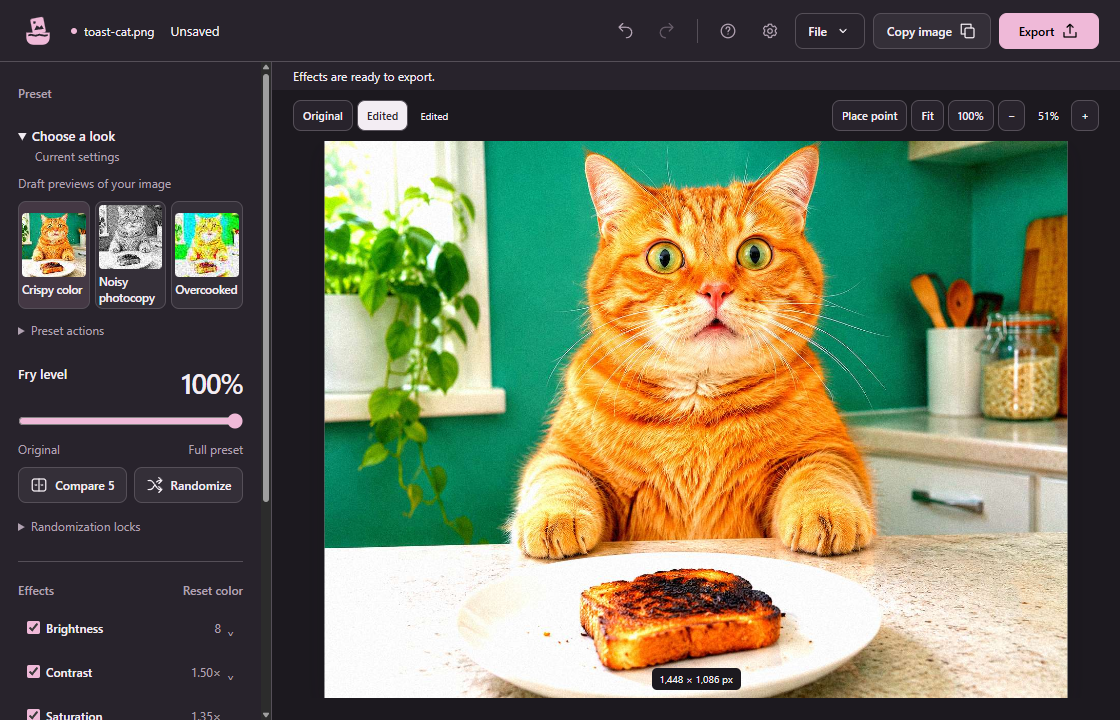
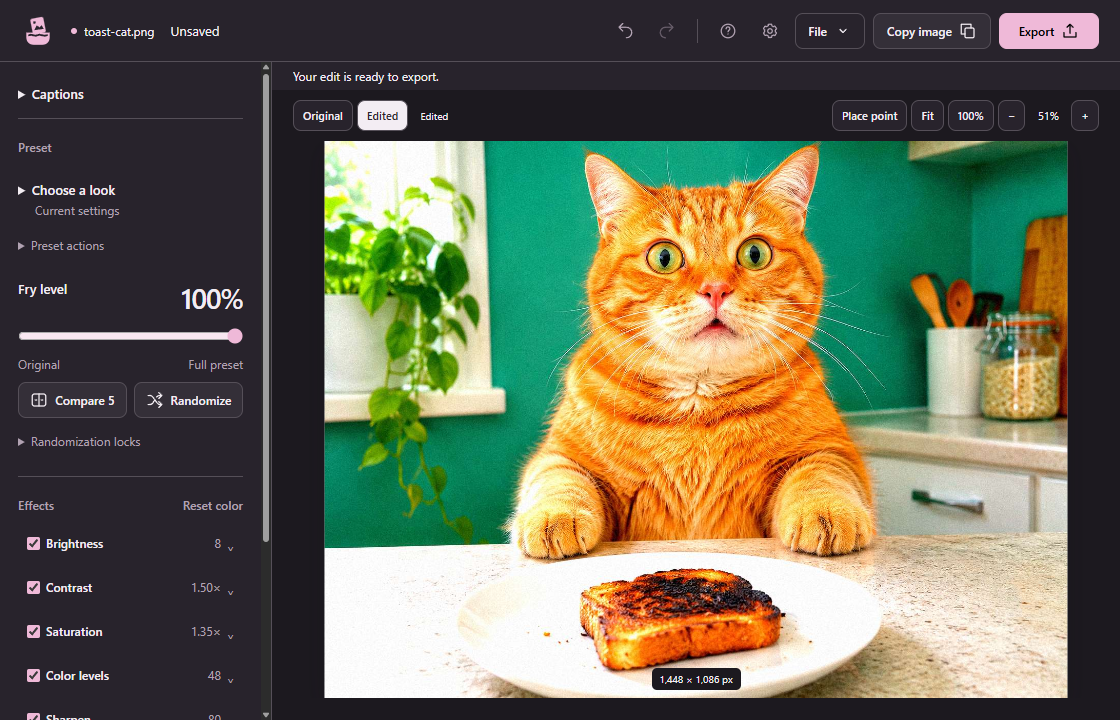
docs: show captions in the actual Windows editor and retain integration evidence

diff --git a/.audit/caption-gate.md b/.audit/caption-gate.md
@@ -1,0 +1,28 @@
+# Caption integration checkpoint
+
+Coordinator source head `028f32e5baed7e3c36f95ed0d1d6bade3c325b26`, source tree `5a3eef182808c3731f62b9972fbc809f688c8747`. The following documentation and image commit leaves that source tree unchanged. Ordinary Save is not included.
+
+## Observed locally
+
+Node 24.22.2 with the lockfile dependencies. Receipts are retained under `.artifacts/caption-integration/` in the coordinator checkout.
+
+- Integrated predecessor `10ad58b` passed typecheck, 51 unit tests, build, and the entire Electron suite with 60 passed and three environment-gated skips. Receipts `typecheck.log`, `unit.log`, `build.log`, and `desktop.log`.
+- The completion message then changed from color-specific wording to complete-edit wording. At `028f32e`, typecheck/build and all seven caption/editor/inspection journeys passed. Receipts `polish-typecheck.log`, `polish-build.log`, and `polish-desktop.log`.
+- A fresh unpacked Windows package at `028f32e` passed the bundled font/license journey and ten caption/copy/historical-file journeys, with native clipboard skipped. Receipts `final-package.log`, `final-packaged-font/manifest.json`, and `packaged-desktop.log`.
[1 lines of base64/hex data omitted]
+- `gallery-capture/manifest.json` records a clean tracked tree, actual packaged mode, changed pixels, unchanged original image bytes, zero recorded renderer errors, and successful teardown. The three gallery images were copied byte-for-byte to `docs/images/`. `fried-product-caption/manifest.json` records the caption screenshot from the same package at 900×620 outer size and 884×581 content. Its capture script is retained as `capture-fried-meme.mjs`.
+- Local documentation check passed 96 links. External URLs were not refreshed by this check.
+
+The first byte-comparison attempt assumed slash-separated ASAR paths and failed with `out/renderer/index.html was not found in this archive`. Listing the archive showed Windows separators. The corrected checker used the native path and matched all files. This was a verification-script correction, with no product change.
+
+## Independent evidence
+
+Terra reviewed the caption range `d2cdcfd..42e1494` before its clean rebase onto the modal correction. Its fresh build, 22 focused units, five Electron journeys, and extra unsupported-text reopen/unfinished-IME close checks passed. It reported no reproduced defect. The synthetic overlength-draft close check timed out and remains unverified. Its stopped disposable profile was retained. Author and coordinator checks do not replace that independent limit.
+
+Sol reviewed the separate modal range `d2cdcfd..3f0e61f`. The permanent regression failed on a fresh base build with expected zero writer calls versus one actual call, then passed on head. Five copy journeys, two Settings/Help journeys, and eight focused restoration probes passed. No actionable finding was reported.
+
+## Separate hosted gates
+
+Compact-parent CI run `41956548235`, attempt 1, at `5b9f30a` passed build-and-test and installer upgrade. Installed-offline reported 57 passed, one failed, and one skipped. Its failure was an `EBUSY` unlink of the disposable profile's `DIPS-wal` file in the second-instance journey. That run remains failed. Diagnosis is separate from caption acceptance, and neither this local package nor a later passing run establishes its historical cause.
+
+Local selections and clipboard writes were intercepted. These checks do not establish installed-offline behavior, native chooser behavior, installer upgrade, native clipboard, or a released 0.5.0 product. The published installer remains 0.4.0 and unsigned. No installation, publishing, or personal clipboard writes occurred.

diff --git a/README.md b/README.md
@@ -42,6 +42,8 @@ Compare it with `SHA256SUMS.txt` on the same release. If the values match and yo
 
 In the 0.5.0 source, open **Captions** and enter **Top** or **Bottom** text. Text stays readable over effects and remains editable when you change looks. **Text size** adjusts its maximum size; longer captions shrink to fit up to three lines. **Clear** removes both captions and can be undone.
 
+![Editable top and bottom captions over a fried demo cat in the 0.5.0 source preview at the minimum Windows window size](docs/images/editor-captions.png)
+
 To continue editing later, use **File → Save project as…**. Exported images do not retain editable effects or text. The **Help** button explains effects, captions, point controls, and saving with illustrated examples.
 
 ## See what the effects do
